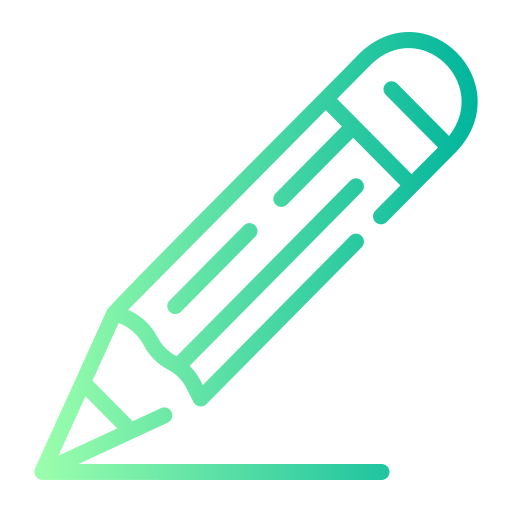
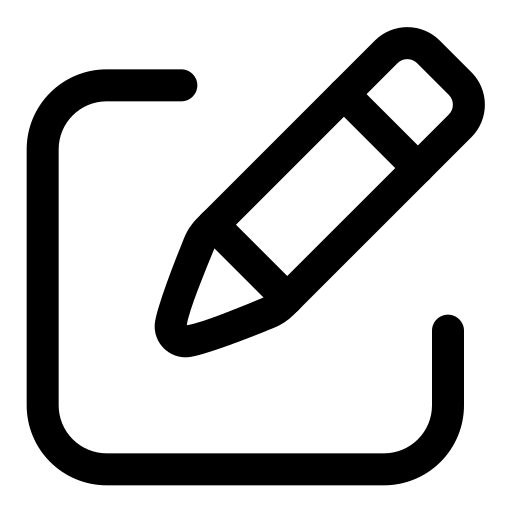
ui change of homepage

diff --git a/src/components/Sidebar.tsx b/src/components/Sidebar.tsx
@@ -1,4 +1,4 @@
-import { Clock, Home,Timer,ListTodo,Settings,ChevronUp,User2} from "lucide-react"
+import { Clock, Home,Timer,ListTodo,Settings,ChevronUp,User2,Laptop} from "lucide-react"
 import { DropdownMenu,DropdownMenuTrigger,DropdownMenuContent,DropdownMenuItem} from "@radix-ui/react-dropdown-menu"
 import { useSession,signOut } from "next-auth/react"
 import {
@@ -32,8 +32,8 @@ const items = [
     icon: Timer,
   },
   {
-    title: "Tasks",
-    url: "tasks",
+    title: "Todo list",
+    url: "todolist",
     icon: ListTodo,
   },
   {
@@ -65,6 +65,22 @@ export default function AppSidebar() {
             </SidebarMenu>
           </SidebarGroupContent>
         </SidebarGroup>
+
+        <SidebarGroup>
+          <SidebarGroupLabel>Developer</SidebarGroupLabel>
+          <SidebarGroupContent>
+            <SidebarMenu>
+                <SidebarMenuItem>
+                  <SidebarMenuButton asChild>
+                    <a href={process.env.NEXT_PUBLIC_DEVELOPER_PORTFOLIO}>
+                      <Laptop/>
+                      <span>Shubhat Rashid</span>
+                    </a>
+                  </SidebarMenuButton>
+                </SidebarMenuItem>
+            </SidebarMenu>
+          </SidebarGroupContent>
+        </SidebarGroup>
       </SidebarContent>
 
 
@@ -80,7 +96,7 @@ export default function AppSidebar() {
               </DropdownMenuTrigger>
               <DropdownMenuContent
                 side="top"
-                className="w-[--radix-popper-anchor-width] flex flex-col bg-white shadow-md rounded text-black gap-3 p-2"
+                className=" w-[--radix-popper-anchor-width] flex flex-col bg-white shadow-md rounded text-black gap-3 p-2"
               >
                 <DropdownMenuItem className="hover:bg-gray-200 rounded-md pl-1 p-1">
                   <span>Account</span>

diff --git a/src/components/Header.tsx b/src/components/Header.tsx
@@ -1,10 +1,6 @@
 'use client';
 
 import { useSession, signOut } from "next-auth/react";
-import { logout } from "../../assets";
-import Image from "next/image";
-import { useState } from "react";
-import { setting } from "../../assets";
 import { SidebarTrigger,SidebarProvider,SidebarFooter,SidebarMenu,SidebarMenuItem} from "./ui/sidebar";
 import {AppSidebar} from "../components"
 
@@ -16,11 +12,13 @@ export default function Footer() {
                 <div className="absolute flex justify-center items-center">
                     {
                         session ?
-                        <SidebarProvider >
-                            <AppSidebar/>
-                            <SidebarTrigger/>
-                            <h1 className="pt-0.5 ml-2 text-xl font-bold font-serif">FLIP</h1>
-                        </SidebarProvider>
+                        <div className='relative'>
+                            <SidebarProvider className="relative">
+                                <AppSidebar/>
+                                <SidebarTrigger className="relative md:absolute  z-10 left-2 "/>
+                                <h1 className="pt-0.4 ml-2  text-lg font-bold font-serif typewriter h-full">FLIP</h1>
+                            </SidebarProvider>
+                        </div>
                         :
                         <h1 className="pt-0.5 ml-2 text-xl font-bold font-serif">FLIP</h1>
                     }

diff --git a/src/components/HomeCard.tsx b/src/components/HomeCard.tsx
@@ -4,11 +4,11 @@ export default function HomeCard({currImage,name,property}:{currImage:{src:strin
     const router = useRouter()
     return (
         <button 
-            className="flex flex-col gap-3 min-w-[120px] justify-center items-center border p-2 rounded-xl 
-                        font-bold font-serif capitalise bg-black"
+            className="flex flex-col gap-3 min-w-[120px] min-h-[150px] justify-center items-center border p-2 rounded-xl 
+                        font-bold font-serif capitalise"
             onClick={typeof property === 'string' ?() => router.push(property): () => property(true)}>
             <h2>{name}</h2>
-            <Image src={currImage.src} alt="time" width={100} height={100} />
+            <Image src={currImage.src} alt="time" width={60} height={60} />
         </button>
     );
 }

diff --git a/src/app/todolist/page.tsx b/src/app/todolist/page.tsx
@@ -1,6 +1,6 @@
 'use client';
 import { FormEvent, useEffect, useState } from "react";
-import {dots,add} from "../../../assets"
+import {edit,add} from "../../../assets"
 import Eachtask from "@/components/Eachtask";
 import {TaskType, TodoType} from "../../types"
 import Image from "next/image";
@@ -219,7 +219,7 @@ export default function Page() {
                         className="absolute top-3 right-3 font-bold"
                         onClick={() => showCardOptions === "" ? setShowCardOptions(todo.category) : setShowCardOptions("")}
                     >
-                            <Image alt='image not found' width={20} height={20} src={dots.src}/>
+                            <Image alt='image not found' width={20} height={20} src={edit.src}/>
                     </button>
 
                     {

diff --git a/src/app/layout.tsx b/src/app/layout.tsx
@@ -12,10 +12,10 @@ export default function RootLayout({
   return (
     <html lang="en">
       <body className="relative flex flex-col w-[100dvw] h-[100dvh] justify-between items-center">
-      <SessionProvider>
+        <SessionProvider>
           <Toaster />
           <Header/>
-            <div className="flex w-full h-full justify-center items-center"> {children}</div>
+            <div className="flex w-full h-full justify-center items-center p-10"> {children}</div>
         </SessionProvider>
       </body>
     </html>

diff --git a/assets/index.ts b/assets/index.ts
@@ -9,4 +9,6 @@ import stopwatch from "./stopwatch.png"
 import todo from "./todo.png"
 import setting from "./setting.png"
 import notes from "./notes.png"
-export {dots,deleteIcon,edit,add,logout,time,countdown,stopwatch,todo,setting,notes}
+import flip from "./flip.png"
+import developer from "./developer.png"
+export {dots,deleteIcon,edit,add,logout,time,countdown,stopwatch,todo,setting,notes,flip,developer}
